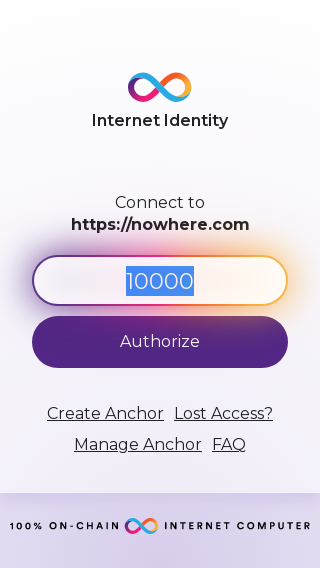
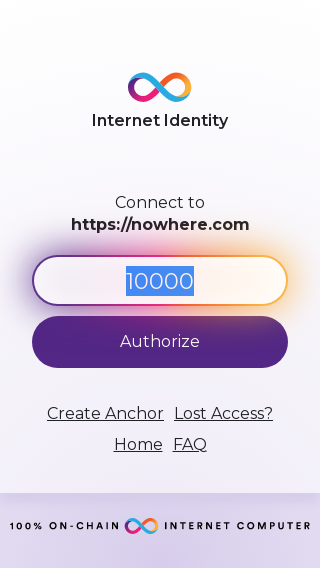
Refactor authenticate page
This refactors the `authenticate` page (`authenticate/index.ts`),
disentangling the code (fewer params, promises, etc passed around) and
making use of more idiomatic lit constructs (`@click`, etc).

Changed region(s): [[0.2188, 0.7482, 0.7812, 0.8081]]

diff --git a/src/frontend/src/flows/authenticate/index.ts b/src/frontend/src/flows/authenticate/index.ts
@@ -22,32 +22,27 @@ import {
 import { unreachable } from "../../utils/utils";
 import { withRef } from "../../utils/lit-html";
 
-type PageElements = {
-  authorizeButton: Ref<HTMLButtonElement>;
-  registerButton: Ref<HTMLLinkElement>;
+type PageProps = {
+  origin: string;
+  onContinue: (arg: bigint) => void;
+  recoverAnchor: (userNumner?: bigint) => void;
+  register: () => void;
+  userNumber?: bigint;
+  derivationOrigin?: string;
 };
 
-const pageContent = (
-  connection: Connection,
-  hostName: string,
-  onContinue: (arg: bigint) => void,
-  userNumber?: bigint,
-  derivationOrigin?: string
-): PageElements & { template: TemplateResult } => {
-  const onManageClick = () => {
-    window.location.hash = "";
-    window.location.reload();
-  };
-
-  const authorizeButton: Ref<HTMLButtonElement> = createRef();
-  const registerButton: Ref<HTMLLinkElement> = createRef();
+const pageContent = ({
+  origin,
+  onContinue,
+  recoverAnchor,
+  register,
+  userNumber,
+  derivationOrigin,
+}: PageProps): { template: TemplateResult } => {
   const anchorInput = mkAnchorInput({
     userNumber,
     onSubmit: onContinue,
   });
-
-  const onRecoverClick = () =>
-    useRecovery(connection, anchorInput.readUserNumber());
 
   /* the chasm that opens to reveal details about alternative origin */
   const chasmRef: Ref<HTMLDivElement> = createRef();
@@ -84,7 +79,7 @@ const pageContent = (
       <div class="l-stack t-centered">
         <p class="t-lead">
           Connect to<br />
-          <span class="t-strong">${hostName}</span>
+          <span class="t-strong">${origin}</span>
           <br />
         </p>
         ${derivationOrigin !== undefined
@@ -94,7 +89,7 @@ const pageContent = (
             )} class="t-link__icon c-chasm__button">${caretDownIcon}</span></span><br/>
           <div ${ref(chasmRef)} class="c-chasm c-chasm--closed">
             <div class="c-chasm__arrow"></div>
-            <div class="t-weak c-chasm__content"><span class="t-strong">${hostName}</span>
+            <div class="t-weak c-chasm__content"><span class="t-strong">${origin}</span>
             is an alternative domain of <br/><span class="t-strong">${derivationOrigin}</span><br/>and you will be authenticated to both with the same identity.
             </div>
           </div>
@@ -106,7 +101,6 @@ const pageContent = (
 
       <button
         @click="${anchorInput.submit}"
-        ${ref(authorizeButton)}
         id="authorizeButton"
         class="c-button"
       >
@@ -115,19 +109,22 @@ const pageContent = (
       <div class="l-stack">
         <ul class="c-list--flex">
           <li>
-            <a ${ref(registerButton)} id="registerButton" class="t-link"
+            <a @click=${register} id="registerButton" class="t-link"
               >Create Anchor</a
             >
           </li>
           <li>
-            <a @click="${onRecoverClick}" id="recoverButton" class="t-link"
+            <a
+              @click="${() => recoverAnchor(anchorInput.readUserNumber())}"
+              id="recoverButton"
+              class="t-link"
               >Lost Access?</a
             >
           </li>
+        </ul>
+        <ul class="c-list--flex">
           <li>
-            <a @click="${onManageClick}" class="t-link" id="manageButton"
-              >Manage Anchor</a
-            >
+            <a href="/" class="t-link" id="manageButton">Home</a>
           </li>
           <li>
             <a
@@ -145,8 +142,6 @@ const pageContent = (
 
   return {
     template,
-    authorizeButton,
-    registerButton,
   };
 };
 
@@ -208,25 +203,22 @@ export const authorizeAuthentication = async (
         // never resolve, do not call init
       });
     case "valid":
-      return new Promise((resolve) => {
-        init(connection, authContext, userNumber).then(resolve);
-      });
+      return authenticatePage(connection, authContext, userNumber);
     default:
       unreachable(validationResult);
       break;
   }
 };
 
-const init = (
+const authenticatePage = (
   connection: Connection,
   authContext: AuthContext,
   userNumber?: bigint
 ): Promise<AuthSuccess> => {
   return new Promise((resolve) => {
-    const { authorizeButton, registerButton } = displayPage(
-      connection,
-      authContext.requestOrigin,
-      async (userNumber) => {
+    displayPage({
+      origin: authContext.requestOrigin,
+      onContinue: async (userNumber) => {
         const authSuccess = await authenticateUser(
           connection,
           authContext,
@@ -234,54 +226,32 @@ const init = (
         );
         resolve(authSuccess);
       },
+      register: () =>
+        registerIfAllowed(connection)
+          .then((result) => {
+            if (result === null) {
+              // user canceled registration
+              return authenticatePage(connection, authContext, userNumber);
+            }
+            if (result.tag === "ok") {
+              return handleAuthSuccess(result, authContext);
+            }
+            // something went wrong, display error and try again
+            return displayError({
+              title: result.title,
+              message: result.message,
+              detail: result.detail !== "" ? result.detail : undefined,
+              primaryButton: "Try again",
+            }).then(() =>
+              authenticatePage(connection, authContext, userNumber)
+            );
+          })
+          .then(resolve),
+
+      recoverAnchor: (userNumber) => useRecovery(connection, userNumber),
       userNumber,
-      authContext.authRequest.derivationOrigin
-    );
-
-    // only focus on the button if the anchor is set and was previously used successfully (i.e. is in local storage)
-    if (userNumber !== undefined && userNumber === getUserNumber()) {
-      withRef(authorizeButton, (authorizeButton) => authorizeButton.focus());
-    }
-
-    // Resolve either on successful authentication or after registration
-    withRef(registerButton, (registerButton) =>
-      initRegistration(
-        connection,
-        authContext,
-        registerButton,
-        userNumber
-      ).then(resolve)
-    );
-  });
-};
-
-const initRegistration = async (
-  connection: Connection,
-  authContext: AuthContext,
-  registerButton: HTMLLinkElement,
-  userNumber?: bigint
-): Promise<AuthSuccess> => {
-  return new Promise((resolve) => {
-    registerButton.onclick = () => {
-      registerIfAllowed(connection)
-        .then((result) => {
-          if (result === null) {
-            // user canceled registration
-            return init(connection, authContext, userNumber);
-          }
-          if (result.tag === "ok") {
-            return handleAuthSuccess(result, authContext);
-          }
-          // something went wrong, display error and try again
-          return displayError({
-            title: result.title,
-            message: result.message,
-            detail: result.detail !== "" ? result.detail : undefined,
-            primaryButton: "Try again",
-          }).then(() => init(connection, authContext, userNumber));
-        })
-        .then(resolve);
-    };
+      derivationOrigin: authContext.authRequest.derivationOrigin,
+    });
   });
 };
 
@@ -312,27 +282,13 @@ const authenticateUser = async (
       primaryButton: "Try again",
     });
   }
-  return init(connection, authContext, userNumber);
+  return authenticatePage(connection, authContext, userNumber);
 };
 
-export const displayPage = (
-  connection: Connection,
-  origin: string,
-  onContinue: (arg: bigint) => void,
-  userNumber?: bigint,
-  derivationOrigin?: string
-): PageElements => {
+export const displayPage = (props: PageProps): void => {
   const container = document.getElementById("pageContent") as HTMLElement;
-  const ret = pageContent(
-    connection,
-    origin,
-    onContinue,
-    userNumber,
-    derivationOrigin
-  );
+  const ret = pageContent(props);
   render(ret.template, container);
-
-  return ret;
 };
 
 async function handleAuthSuccess(

diff --git a/src/frontend/src/showcase.ts b/src/frontend/src/showcase.ts
@@ -150,20 +150,22 @@ const iiPages: Record<string, () => void> = {
     pickRecoveryDevice([recoveryPhrase, recoveryDevice]),
   register: () => register(dummyConnection),
   authenticate: () =>
-    displayPage(
-      dummyConnection,
-      "https://nowhere.com",
-      console.log,
-      BigInt(10000)
-    ),
+    displayPage({
+      origin: "https://nowhere.com",
+      onContinue: console.log,
+      recoverAnchor: console.log,
+      register: () => console.log("Register requested"),
+      userNumber: BigInt(10000),
+    }),
   authenticateAlternative: () =>
-    displayPage(
-      dummyConnection,
-      "https://nowhere.com",
-      console.log,
-      BigInt(10000),
-      "http://jqajs-xiaaa-aaaad-aab5q-cai.ic0.app"
-    ),
+    displayPage({
+      origin: "https://nowhere.com",
+      onContinue: console.log,
+      recoverAnchor: console.log,
+      register: () => console.log("Register requested"),
+      userNumber: BigInt(10000),
+      derivationOrigin: "http://jqajs-xiaaa-aaaad-aab5q-cai.ic0.app",
+    }),
   recoverWithPhrase: () =>
     phraseRecoveryPage(userNumber, dummyConnection, recoveryPhrase),
   recoverWithDevice: () =>
